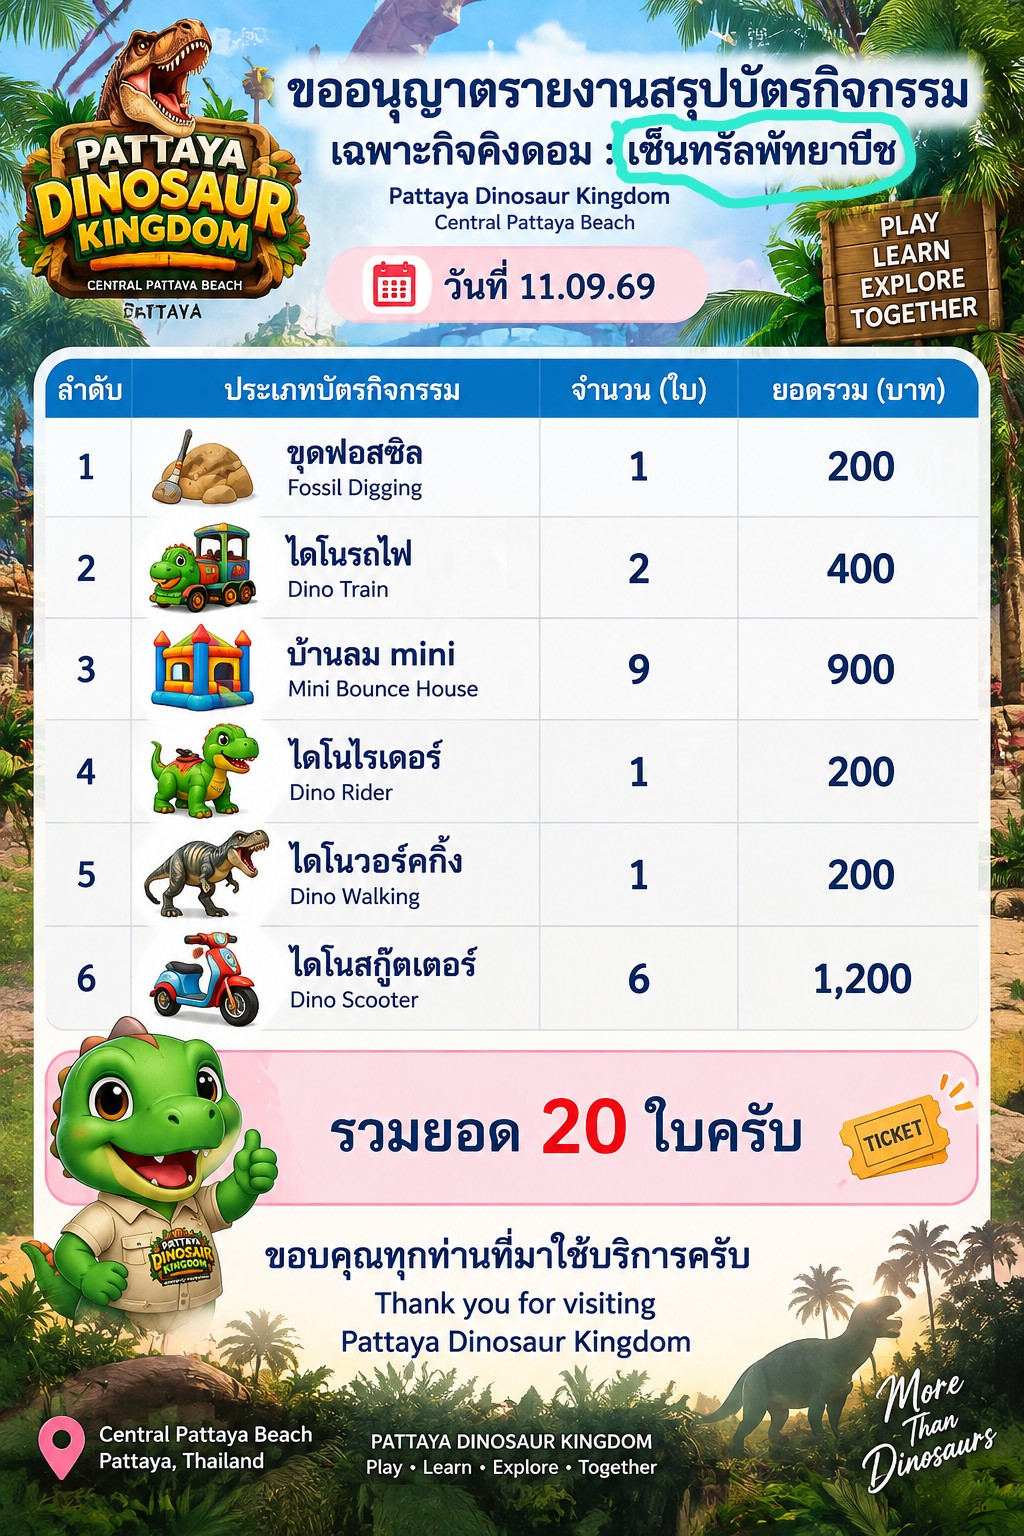
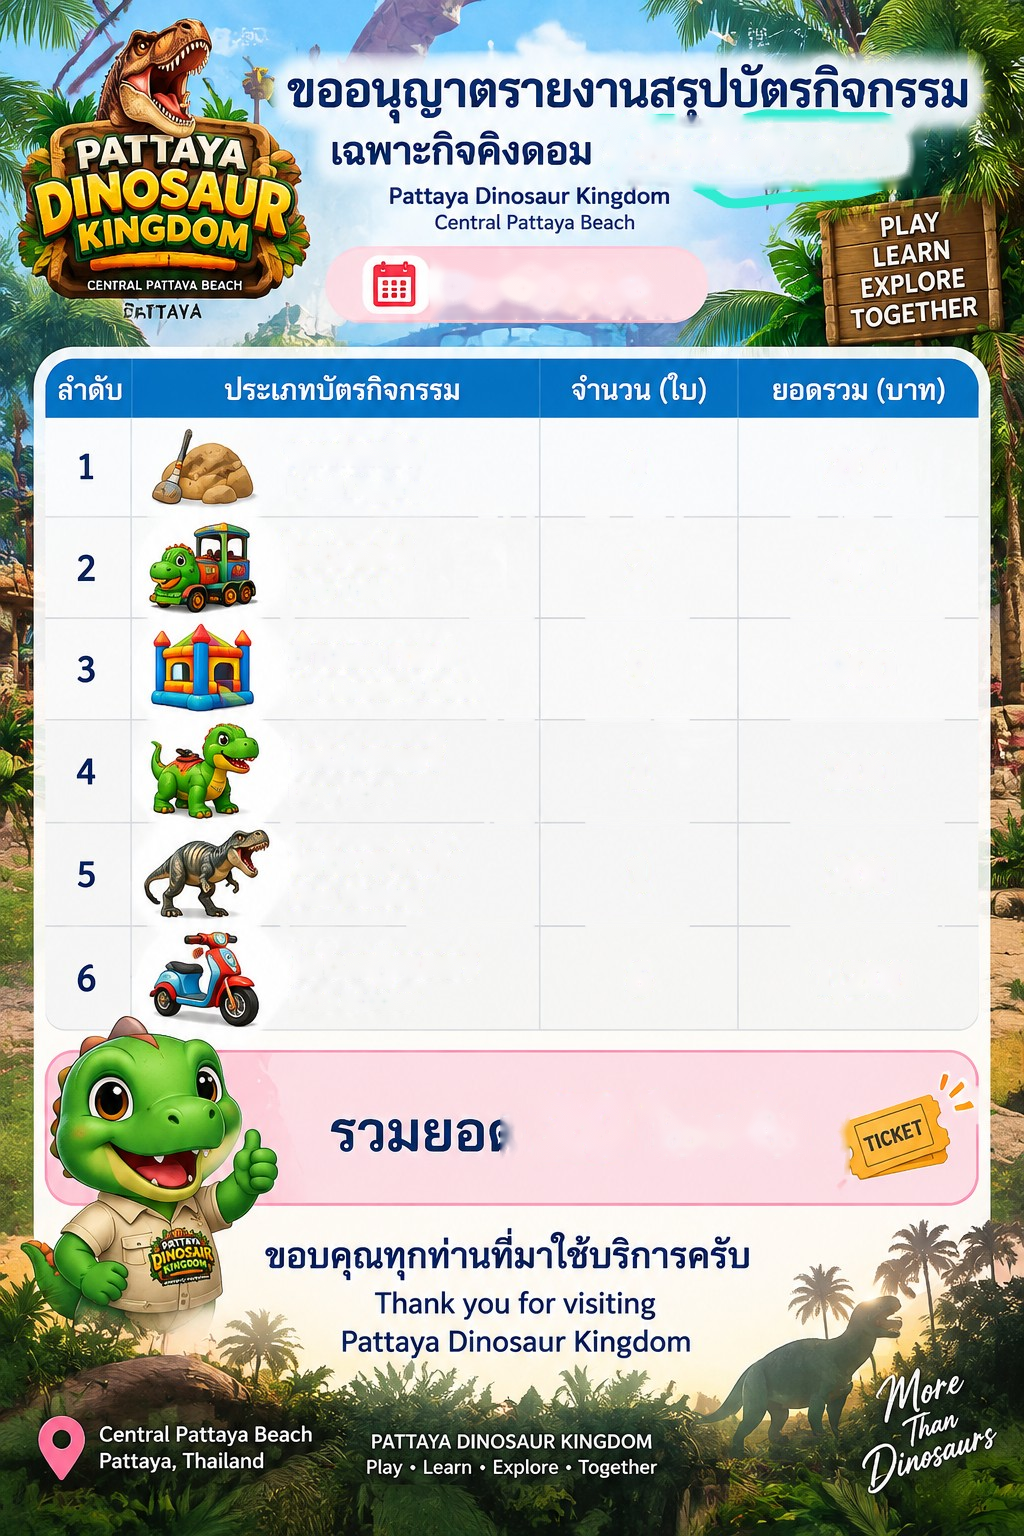
Add files via upload

diff --git a/index.html b/index.html
@@ -1,6 +1,6 @@
 <!doctype html><html><head><meta charset="utf-8"><meta name="viewport" content="width=device-width,initial-scale=1"><meta name="theme-color" content="#b79cff"><meta name="mobile-web-app-capable" content="yes"><meta name="apple-mobile-web-app-capable" content="yes"><meta name="apple-mobile-web-app-status-bar-style" content="default"><meta name="apple-mobile-web-app-title" content="Pattaya Owner"><link rel="manifest" href="./manifest.webmanifest?v=5.9"><link rel="icon" type="image/png" sizes="192x192" href="./icon-192.png?v=3.2"><link rel="icon" type="image/png" sizes="512x512" href="./icon-512.png?v=3.2"><link rel="apple-touch-icon" sizes="192x192" href="./icon-192.png?v=3.2"><title>Pattaya Dinosaur Kingdom</title><meta property="og:title" content="Pattaya Dinosaur Kingdom Owner"><meta property="og:description" content="Event Ticket Report"><style>
 *{box-sizing:border-box}html{scroll-behavior:smooth}body{margin:0;font-family:system-ui,-apple-system,BlinkMacSystemFont,"Segoe UI",sans-serif;color:#28324d;background:linear-gradient(135deg,#fff2a8,#bdeaff,#f2c8ff,#b9ffd9);min-height:100vh;-webkit-tap-highlight-color:transparent}button,.btn,a,input{touch-action:manipulation}button:active,.btn:active{transform:scale(.98)}main{max-width:1100px;margin:auto;padding:10px}.g{background:#ffffff75;border:1px solid #fff;border-radius:25px;box-shadow:0 16px 45px #66508022,inset 0 1px #fff;backdrop-filter:blur(20px)}header{padding:14px;display:flex;justify-content:space-between;align-items:center}.logo{font-size:28px;background:#b58af5;border-radius:17px;padding:8px 12px}.brand{display:flex;gap:10px;align-items:center}small{opacity:.55}nav{display:flex;gap:7px;overflow:auto;margin:11px 0;scrollbar-width:none;position:sticky;top:7px;z-index:4;padding:3px}nav::-webkit-scrollbar{display:none}nav a,nav button{padding:10px 13px;background:#ffffffd9;border-radius:14px;text-decoration:none;color:#594b7b;font-weight:850;white-space:nowrap;box-shadow:0 4px 14px #66508012}nav a.on{background:linear-gradient(135deg,#9877ef,#d36db4);color:#fff}.hero{padding:22px;margin-bottom:12px}h1{font-size:clamp(40px,7vw,72px);line-height:.9;margin:12px 0}h1 span{color:#956de8}.grid{display:grid;grid-template-columns:repeat(3,1fr);gap:11px}.card,.ticket{padding:14px}.home-grid{display:grid;grid-template-columns:repeat(3,1fr);gap:9px}.home-grid .card{padding:11px;border-radius:18px}.home-grid h3{font-size:15px;line-height:1.2;margin:2px 0 8px}.home-grid .btn{width:100%;text-align:center;padding:8px 7px;font-size:13px;border-radius:11px}.home-share{padding:10px!important;margin-top:9px!important}.tickets{display:grid;grid-template-columns:repeat(3,1fr);gap:11px}.pic{border-radius:18px;overflow:hidden;background:#fff9;display:flex;justify-content:center;align-items:center;font-size:50px}.pic img{width:100%;height:auto;max-height:none;display:block;object-fit:contain}input,button{font:inherit}input{width:100%;border:0;border-radius:12px;padding:11px;background:#fff9;margin:6px 0}button,.btn{border:0;border-radius:13px;padding:10px 14px;background:linear-gradient(135deg,#9978ee,#d56db6);color:#fff;font-weight:850;cursor:pointer;display:inline-block;text-decoration:none}.total{padding:16px;margin:12px 0;display:flex;justify-content:space-between;font-size:19px;font-weight:900}footer{padding:24px 5px 86px;font-size:10px;opacity:.5;text-align:center}.stat-grid{display:grid;grid-template-columns:repeat(4,1fr);gap:9px;margin:10px 0}.stat{padding:13px;border-radius:18px;text-align:center}.stat b{display:block;font-size:25px;margin-top:3px}.quick-title{margin:14px 2px 8px;font-weight:900}.muted{opacity:.65}.toast{position:fixed;left:50%;bottom:76px;transform:translateX(-50%) translateY(20px);background:#28324d;color:#fff;padding:11px 16px;border-radius:999px;font-weight:800;z-index:20;opacity:0;pointer-events:none;transition:.22s;box-shadow:0 10px 30px #0003}.toast.show{opacity:1;transform:translateX(-50%) translateY(0)}.stepper{display:grid;grid-template-columns:48px 1fr 48px;gap:6px;align-items:center;margin:6px 0}.stepper button{height:44px;padding:0;font-size:24px;border-radius:13px}.stepper input{margin:0;text-align:center;font-weight:850;font-size:18px}.danger{background:linear-gradient(135deg,#e45d72,#c63d63)!important}.secondary{background:#ffffffd9!important;color:#594b7b!important;border:1px solid #ffffff}.data-row{display:flex;gap:8px;align-items:center}.data-row>*{flex:1}@media(max-width:700px){.stat-grid{grid-template-columns:repeat(2,1fr)}nav{top:4px}body:after{content:"";position:fixed;left:0;right:0;bottom:0;height:64px;background:#ffffffcc;backdrop-filter:blur(14px);z-index:3;border-top:1px solid #fff}.toast{bottom:78px}}.modal{display:none;position:fixed;inset:0;background:#30204466;align-items:center;justify-content:center;padding:15px;z-index:5}.modal.show{display:flex}.box{padding:18px;width:min(470px,100%)}.preview{max-height:260px;overflow:hidden;border-radius:16px;background:#fff9;margin:6px 0;text-align:center}.preview img{max-width:100%;height:auto;display:block;margin:auto}.acts{display:flex;gap:8px}.acts>*{flex:1}@media(max-width:700px){.tickets,.grid{grid-template-columns:1fr 1fr}.home-grid{grid-template-columns:repeat(2,1fr);gap:8px}}@media(max-width:460px){.tickets,.grid{grid-template-columns:1fr}.home-grid{grid-template-columns:repeat(2,minmax(0,1fr));gap:7px}.home-grid .card{padding:9px}.home-grid h3{font-size:13px}.home-grid .btn{font-size:12px;padding:7px 5px}}
-</style></head><body><main><header class="g"><div class="brand"><div class="logo">🦖</div><div><small>PRIVATE OWNER WEBSITE</small><b>PATTAYA DINOSAUR KINGDOM</b></div></div><b>● OWNER ONLY</b></header><div id="app"></div><footer>Private Owner • Ticket Counter • v5.6</footer></main><div id="toast" class="toast"></div>
+</style></head><body><main><header class="g"><div class="brand"><div class="logo">🦖</div><div><small>PRIVATE OWNER WEBSITE</small><b>PATTAYA DINOSAUR KINGDOM</b></div></div><b>● OWNER ONLY</b></header><div id="app"></div><footer>Private Owner • Ticket Counter • v5.10</footer></main><div id="toast" class="toast"></div>
 <div class="modal" id="modal"><div class="box g"><h3>✏ Edit Ticket</h3><input id="name" placeholder="Ticket name"><input id="price" type="number" min="0" step="1" inputmode="decimal" placeholder="Ticket price (THB)"><div class="preview" id="prev">No image selected</div><input id="file" type="file" accept="image/*"><div class="acts"><button onclick="closeM()">Cancel</button><button onclick="saveM()">Save</button></div></div></div>
 <script>
 const D={sale:[['Adult','👨'],['Kid','🧒'],['Small','👦'],['VIP','⭐'],['Kids Entry Ticket','🎟']],entry:[['Adult','👨👩👦'],['Kid','🧒'],['Small','👦'],['VIP','⭐'],['Kids Entry Ticket','🎟']],playing:[['50฿ Activity Ticket','🦴',50],['100฿ Activity Ticket','🦖',100],['200฿ Activity Ticket','🥚',200],['Package A','🎁'],['Package B','🎁'],['Promotion Rider','🏍']]};
@@ -238,22 +238,12 @@ async function buildEventTemplateImage(rows){
  const base=await loadReportImage('report-template-event.png');
  if(!base)return null;
  ctx.drawImage(base,0,0,W,H);
- // Rebuild the dynamic top/table areas using the original palette so no old text can ghost through.
- const sky=ctx.createLinearGradient(290,35,820,345);sky.addColorStop(0,'#86d6f5');sky.addColorStop(.45,'#bfe8fb');sky.addColorStop(1,'#8ed4ee');
- ctx.fillStyle=sky;ctx.fillRect(300,42,520,300);
- // soften the center with a subtle cloud-like glow, not a solid cover
- const glow=ctx.createRadialGradient(560,160,20,560,160,300);glow.addColorStop(0,'rgba(255,255,255,.72)');glow.addColorStop(1,'rgba(255,255,255,0)');ctx.fillStyle=glow;ctx.fillRect(300,42,520,300);
- // preserve the original turquoise location ring from the supplied design
- ctx.save();ctx.strokeStyle='#35e0c5';ctx.lineWidth=7;ctx.beginPath();ctx.ellipse(765,153,150,48,0,0,Math.PI*2);ctx.stroke();ctx.restore();
+ // Clean template already has the original sky/foliage colors with old dynamic text removed.
  function txt(v,x,y,font='700 28px system-ui',fill='#102d63',align='left'){ctx.fillStyle=fill;ctx.font=font;ctx.textAlign=align;ctx.textBaseline='middle';ctx.fillText(String(v),x,y)}
  function fit(v,max,font){ctx.font=font;let s=String(v??'');while(s.length>2&&ctx.measureText(s).width>max)s=s.slice(0,-1);return s}
  const center=reportLocation()||'PATTAYA';
  txt(fit(center,260,'900 30px system-ui'),765,154,'900 30px system-ui','#102d63','center');
- // Date pill rebuilt in the original pink style; only the calendar icon is reused from the source.
- const pill=ctx.createLinearGradient(330,250,720,320);pill.addColorStop(0,'#ffd8e3');pill.addColorStop(.5,'#ffe2eb');pill.addColorStop(1,'#ffd3df');
- ctx.fillStyle=pill;roundRect(ctx,325,247,400,82,38);ctx.fill();
- txt('📅',390,288,'44px sans-serif','#e6324f','center');
- txt(reportDateThai(),540,288,'900 40px system-ui','#102d63','center');
+ // Use the original pink date pill from the cleaned template; only the date text is dynamic.
  // Clean table body while retaining original grid/header colors.
  const x0=31,y0=418,rowH=102,w=958;
  ctx.fillStyle='rgba(255,255,255,.985)';ctx.fillRect(x0,y0,w,rowH*6);
